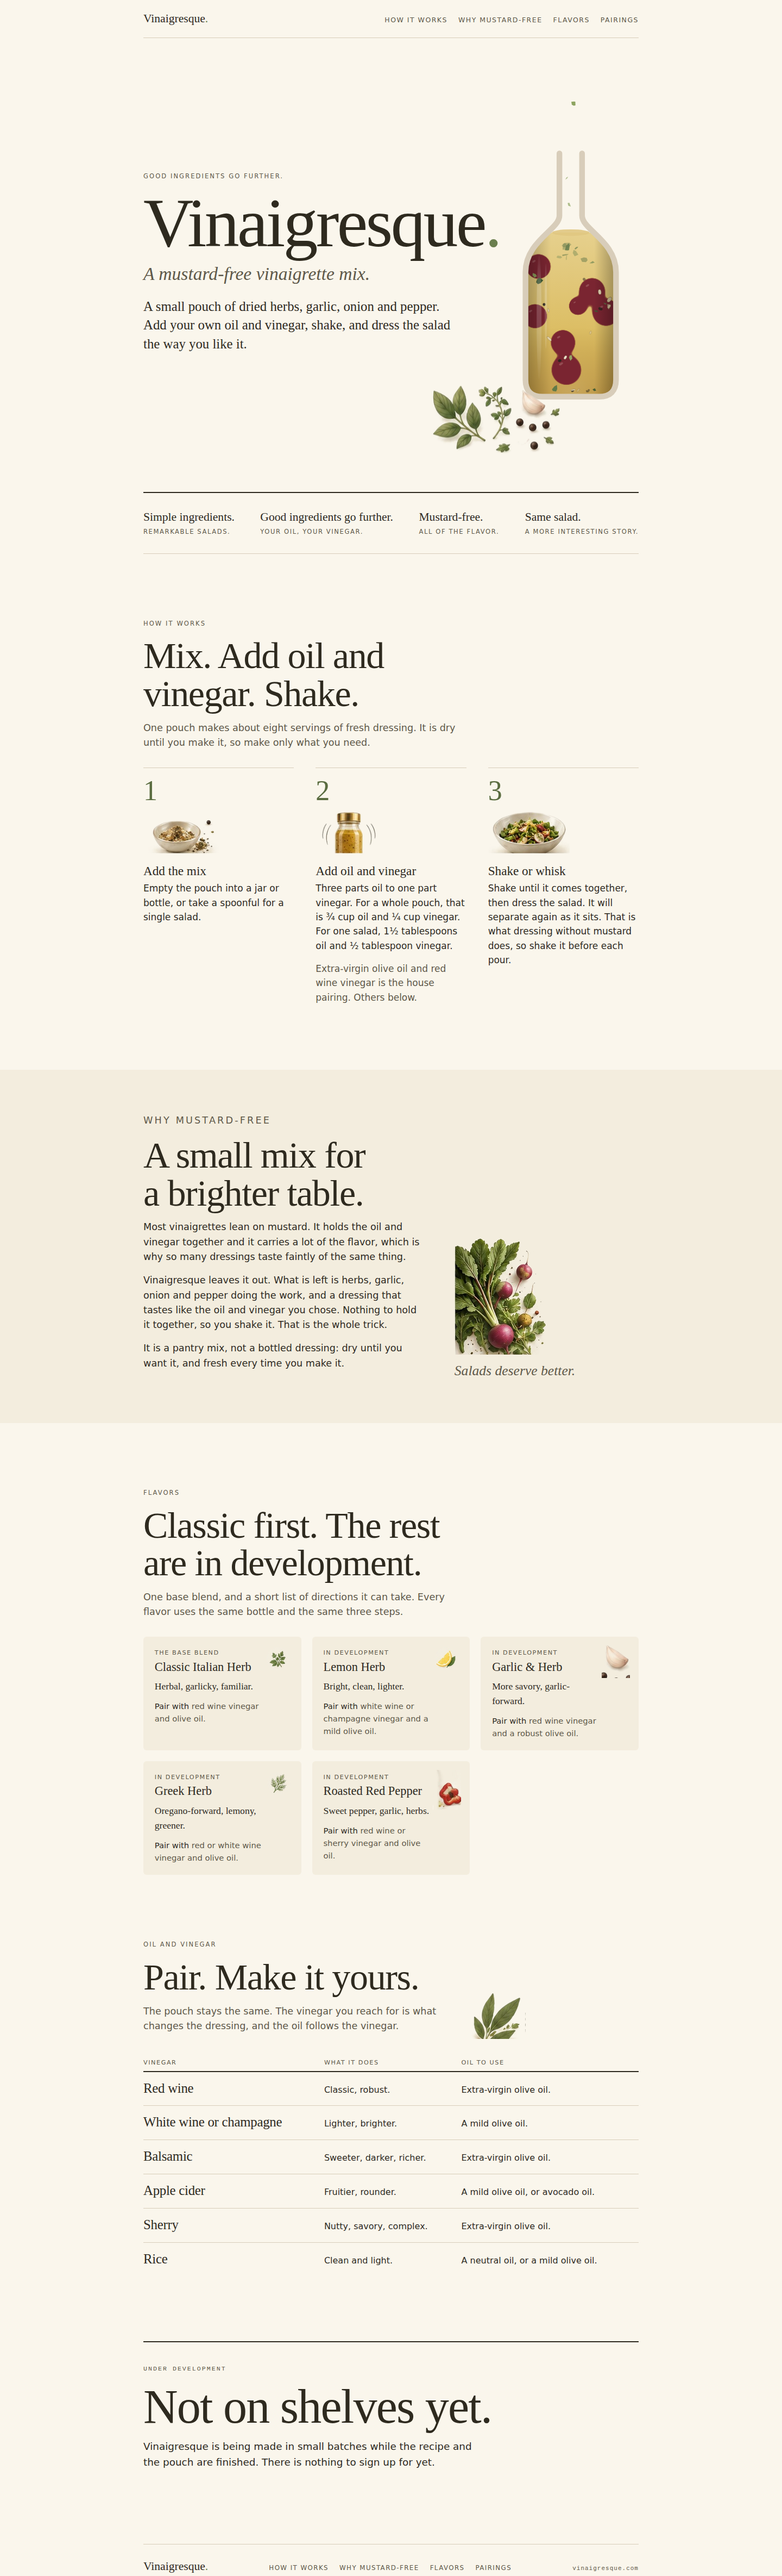
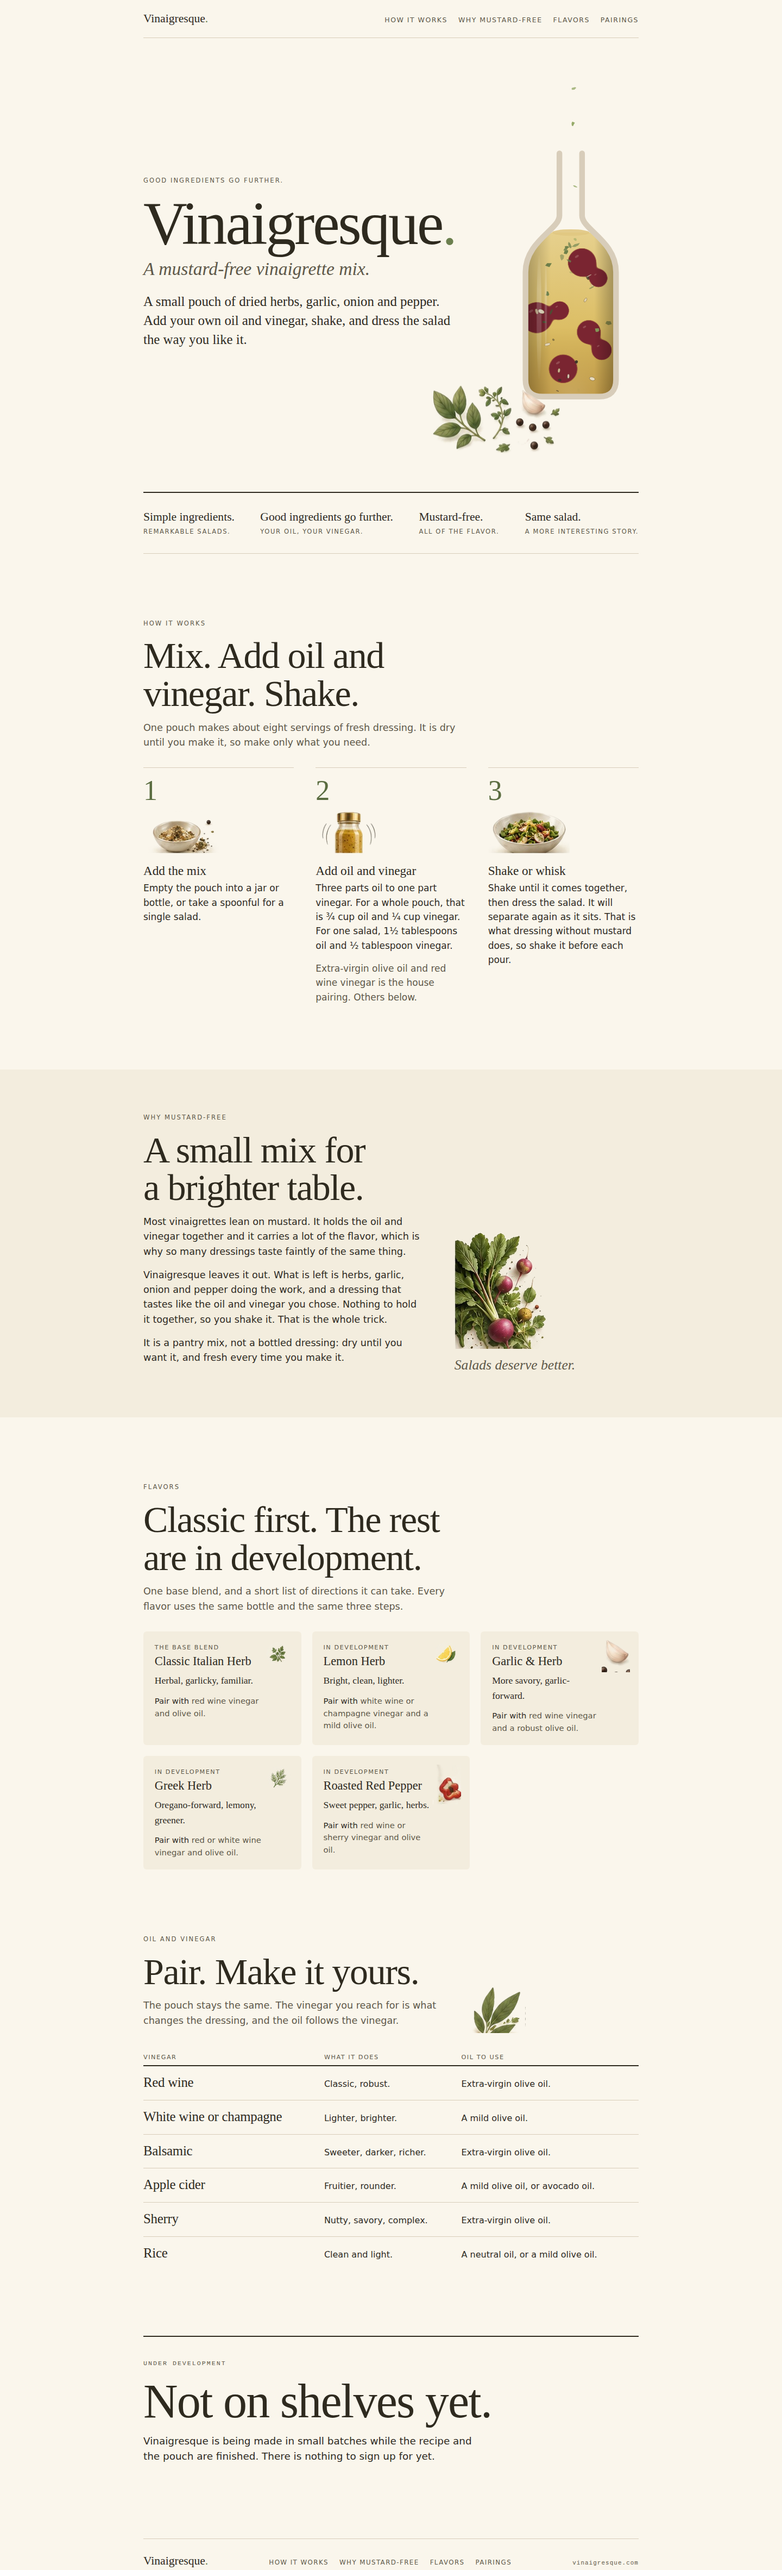
Round 2 variants: fixes from the self-review
scale: the 8rem name overflowed its hero column from about 1280px up
under a wide serif fallback and ran to within 5px of the bottle; capped
at 7rem, measured against DejaVu Serif. The why-section kicker rendered
at 17.6px because the story body rule outranked .kicker; pinned. A dead
duplicate rule for the radish width removed.

food: step-one alt text described a spoon the image does not have; the
plate-width comment was wrong.

edit: a dead .lineup .muted rule removed.

Claude-Session: https://claude.ai/code/session_01LPK6v77uQd8UH9gGXRoUqQ

diff --git a/design/round-2/scale.html b/design/round-2/scale.html
@@ -128,11 +128,12 @@
     text-align: center;
   }
   .hero-copy { max-width: var(--measure); margin: 0 auto; min-width: 0; }
-  /* The name: 5rem on the shipped page, 8rem here (128px at 1440, 54px at
-     360). One word, so it never wraps; the vw term is set so that it fits
-     its column at every width the two-column layout is used at. */
+  /* The name: 5rem on the shipped page, 7rem here (112px at 1440, 56px at
+     360). One word, so it cannot wrap, and the cap is set by the widest
+     system serif fallback (DejaVu Serif sets it at ~575px in a 598px column
+     at 1440; Iowan and Palatino are narrower) so it never reaches the bottle. */
   h1 {
-    font-size: clamp(3.5rem, 10vw, 8rem);
+    font-size: clamp(3.5rem, 8vw, 7rem);
     letter-spacing: -0.03em;
     line-height: .95;
     margin: 0 0 .1em;
@@ -267,14 +268,14 @@
   .story { display: grid; grid-template-columns: 1fr; gap: 2rem 4rem; }
   .story .body { max-width: var(--measure); }
   .story .body p { font-size: 1.1rem; }
+  .story .body p.kicker { font-size: .72rem; }   /* or the body rule above outranks .kicker */
   .story .aside { font-family: var(--serif); font-style: italic; font-size: 1.6rem; color: var(--muted); line-height: 1.25; text-align: center; margin: 0; }
   @media (min-width: 760px) {
     .story { grid-template-columns: minmax(0, 3fr) minmax(0, 2fr); align-items: end; }
     .story .aside { text-align: left; }
     .story-fig { align-items: flex-start; }
-    .story-fig img { width: min(215px, 22vw); }   /* native 172 wide, so capped at that below */
+    .story-fig img { width: 172px; }   /* native width */
   }
-  @media (min-width: 760px) { .story-fig img { width: 172px; } }
 
   .cards { display: grid; grid-template-columns: 1fr; gap: 1rem; margin: 0; padding: 0; list-style: none; }
   .card {

diff --git a/design/round-2/food.html b/design/round-2/food.html
@@ -202,7 +202,8 @@
   /* How it works: three plates in a row, the renders at native size on
      them, and the text underneath at body size. The numeral sits in the
      plate's corner, on the panel and never on the picture: the widest render
-     is 170px and the plate never narrower than 320px, so the corner is clear. */
+     is 170px and sits at least 38px in from the plate edge while the numeral
+     box ends 39px in, so the corner is clear at every width. */
   .steps { display: grid; grid-template-columns: 1fr; gap: 1.75rem; margin: 0; padding: 0; list-style: none; counter-reset: step; }
   .steps li { counter-increment: step; }
   .plate {
@@ -392,7 +393,7 @@
       </div>
       <ol class="steps">
         <li>
-          <div class="plate"><img src="../../assets/img/step-mix.png" width="165" height="95" alt="A small bowl of the dry mix, with a spoonful beside it"></div>
+          <div class="plate"><img src="../../assets/img/step-mix.png" width="165" height="95" alt="A small bowl of the dry mix, with some spilled beside it"></div>
           <h3>Add the mix</h3>
           <p>Empty the pouch into a jar or bottle, or take a spoonful for a single salad.</p>
         </li>

diff --git a/design/round-2/edit.html b/design/round-2/edit.html
@@ -234,7 +234,6 @@
   .lineup td { padding-top: 1.3rem; }             /* centred on the name, which sits mid-icon */
   .lineup .fl { display: inline-flex; align-items: center; gap: .8rem; }
   .lineup .ico { width: 44px; height: 44px; object-fit: contain; flex: 0 0 auto; }
-  .lineup .muted { margin: 0; }
   @media (max-width: 599px) {
     .pairings thead { position: absolute; width: 1px; height: 1px; overflow: hidden; clip: rect(0 0 0 0); }
     .pairings tr { display: block; padding: .8rem 0; border-top: 1px solid var(--taupe); }
